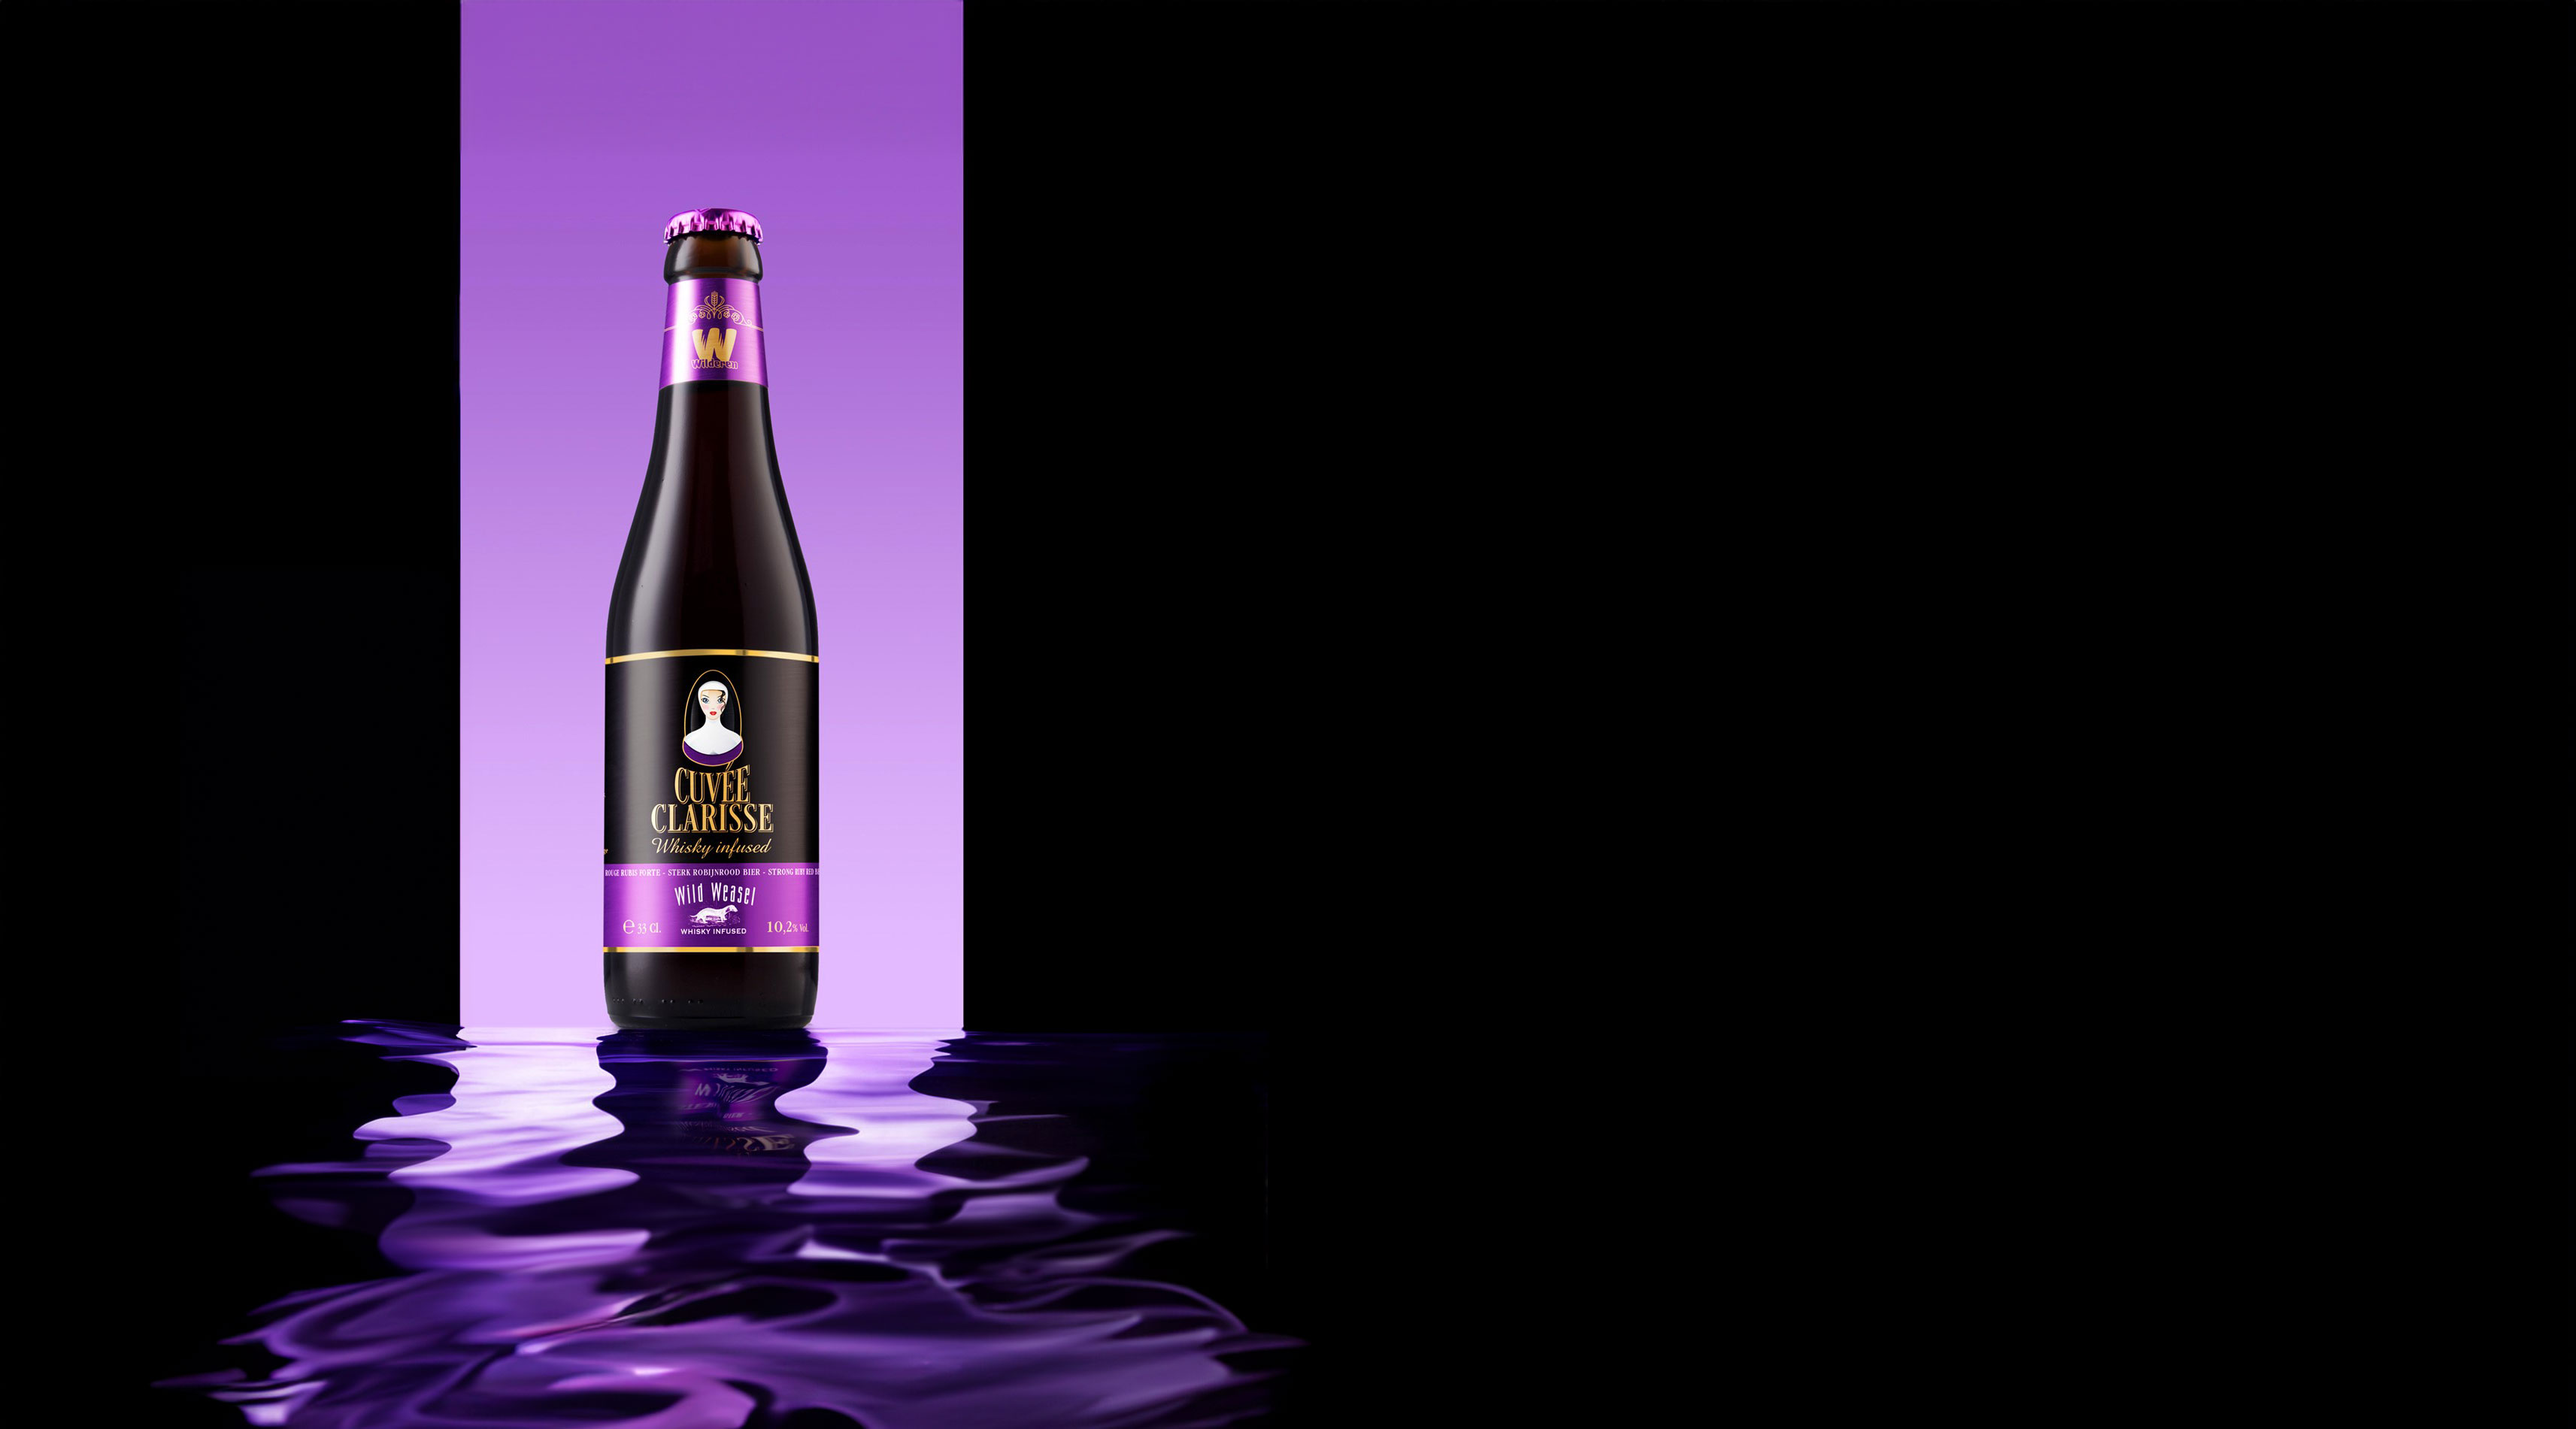
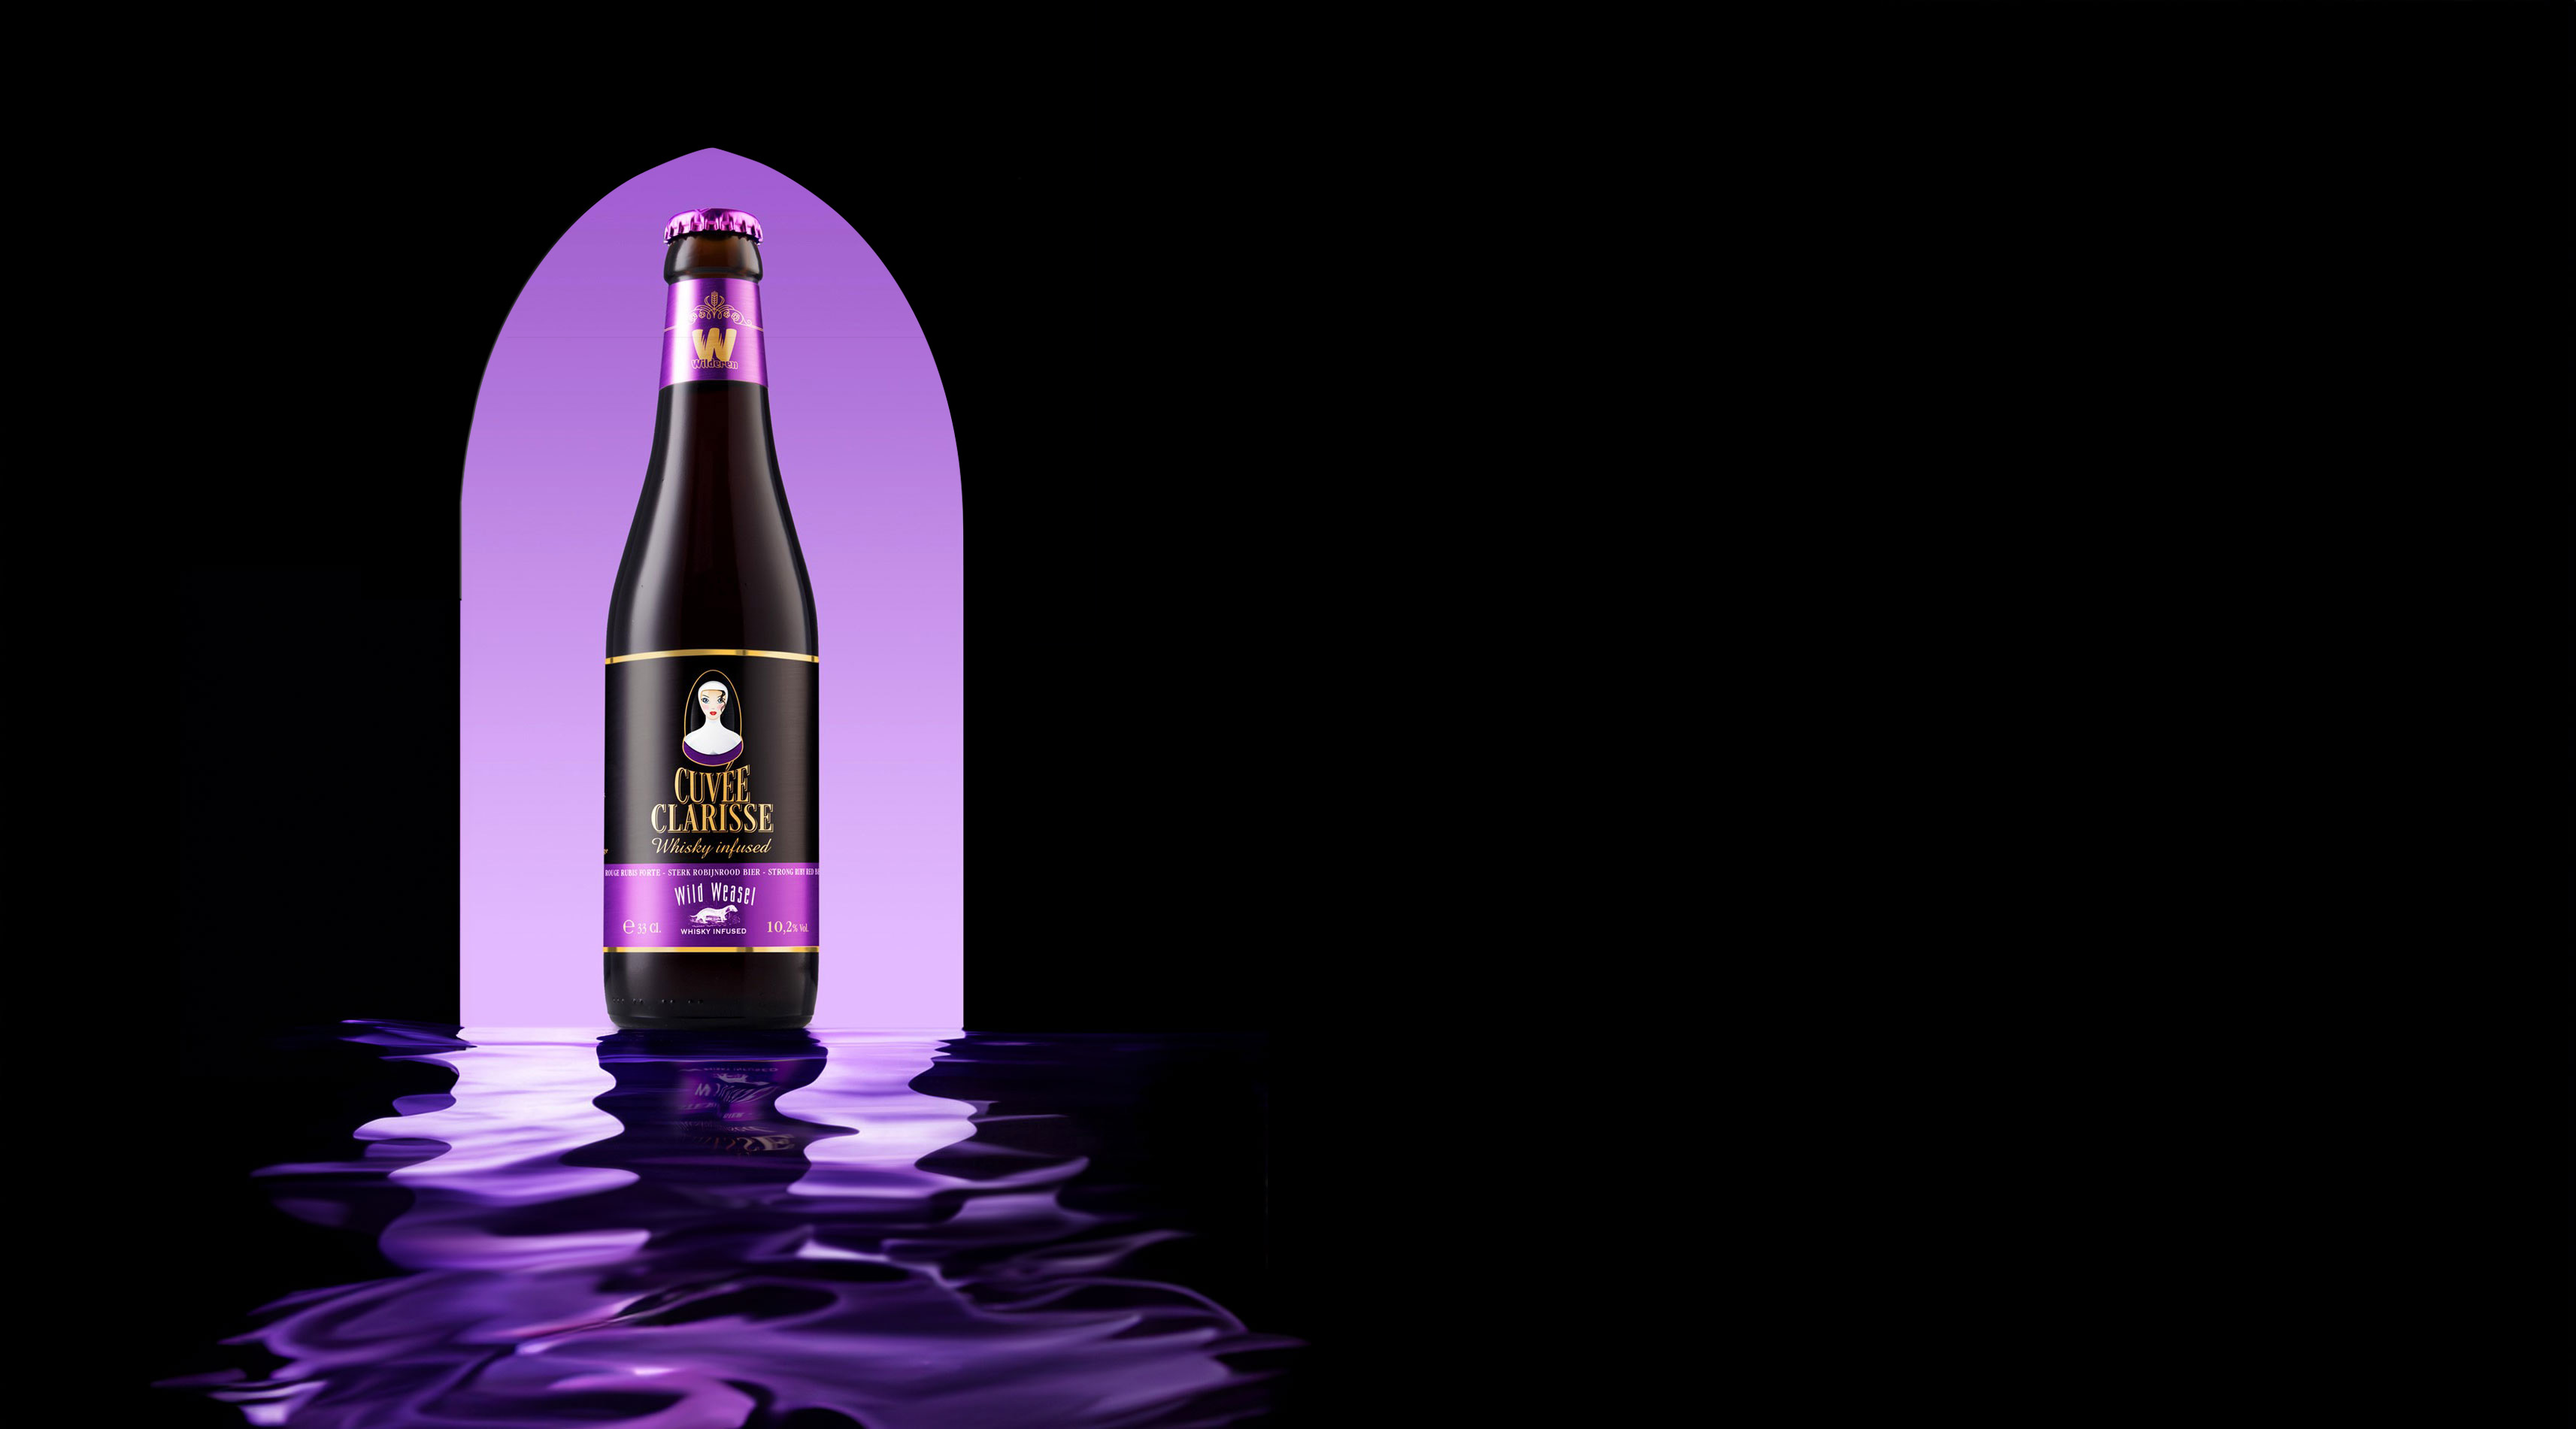
Reduce files size of a bunch of images, update whiskey infused bg (feedback)

Changed region(s): [[0.1562, 0.0, 0.3748, 0.3104]]

diff --git a/docs/cafe.html b/docs/cafe.html
@@ -13,7 +13,7 @@
     <link rel="stylesheet" href="footer.css">
     <script src="openingsuren.bundle.js" defer></script>
 </head>
-<>
+
     <header>
         <div class="header-container">
             <a href="index.html" class="logo-link"><img src="WEBSITE/Logo/DISTILLEERDERIJ BROUWERIJ LOGO.png" alt="logo WIlderen" class="logo"></a>
